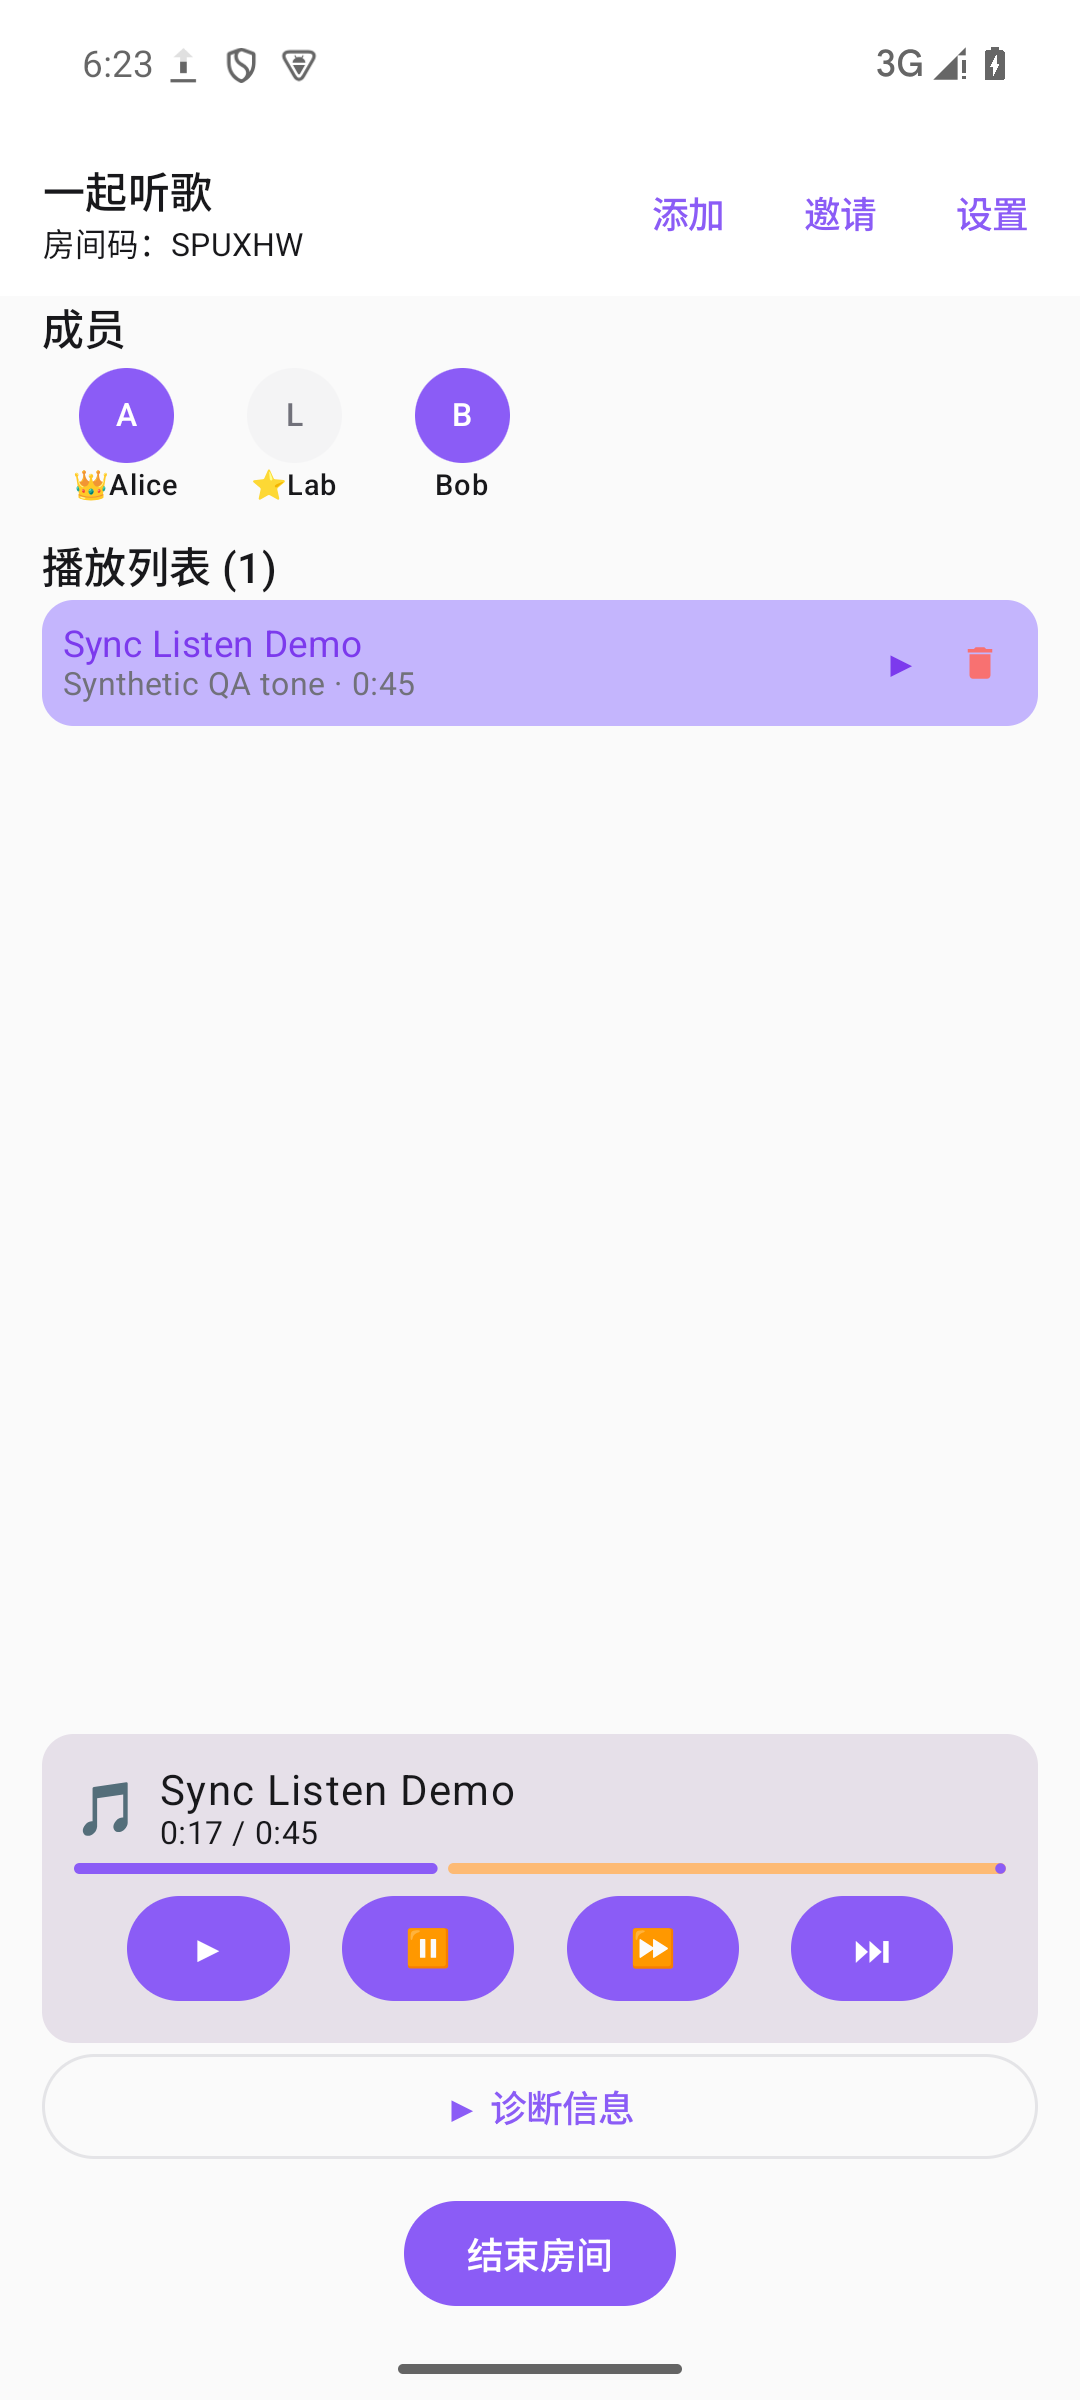
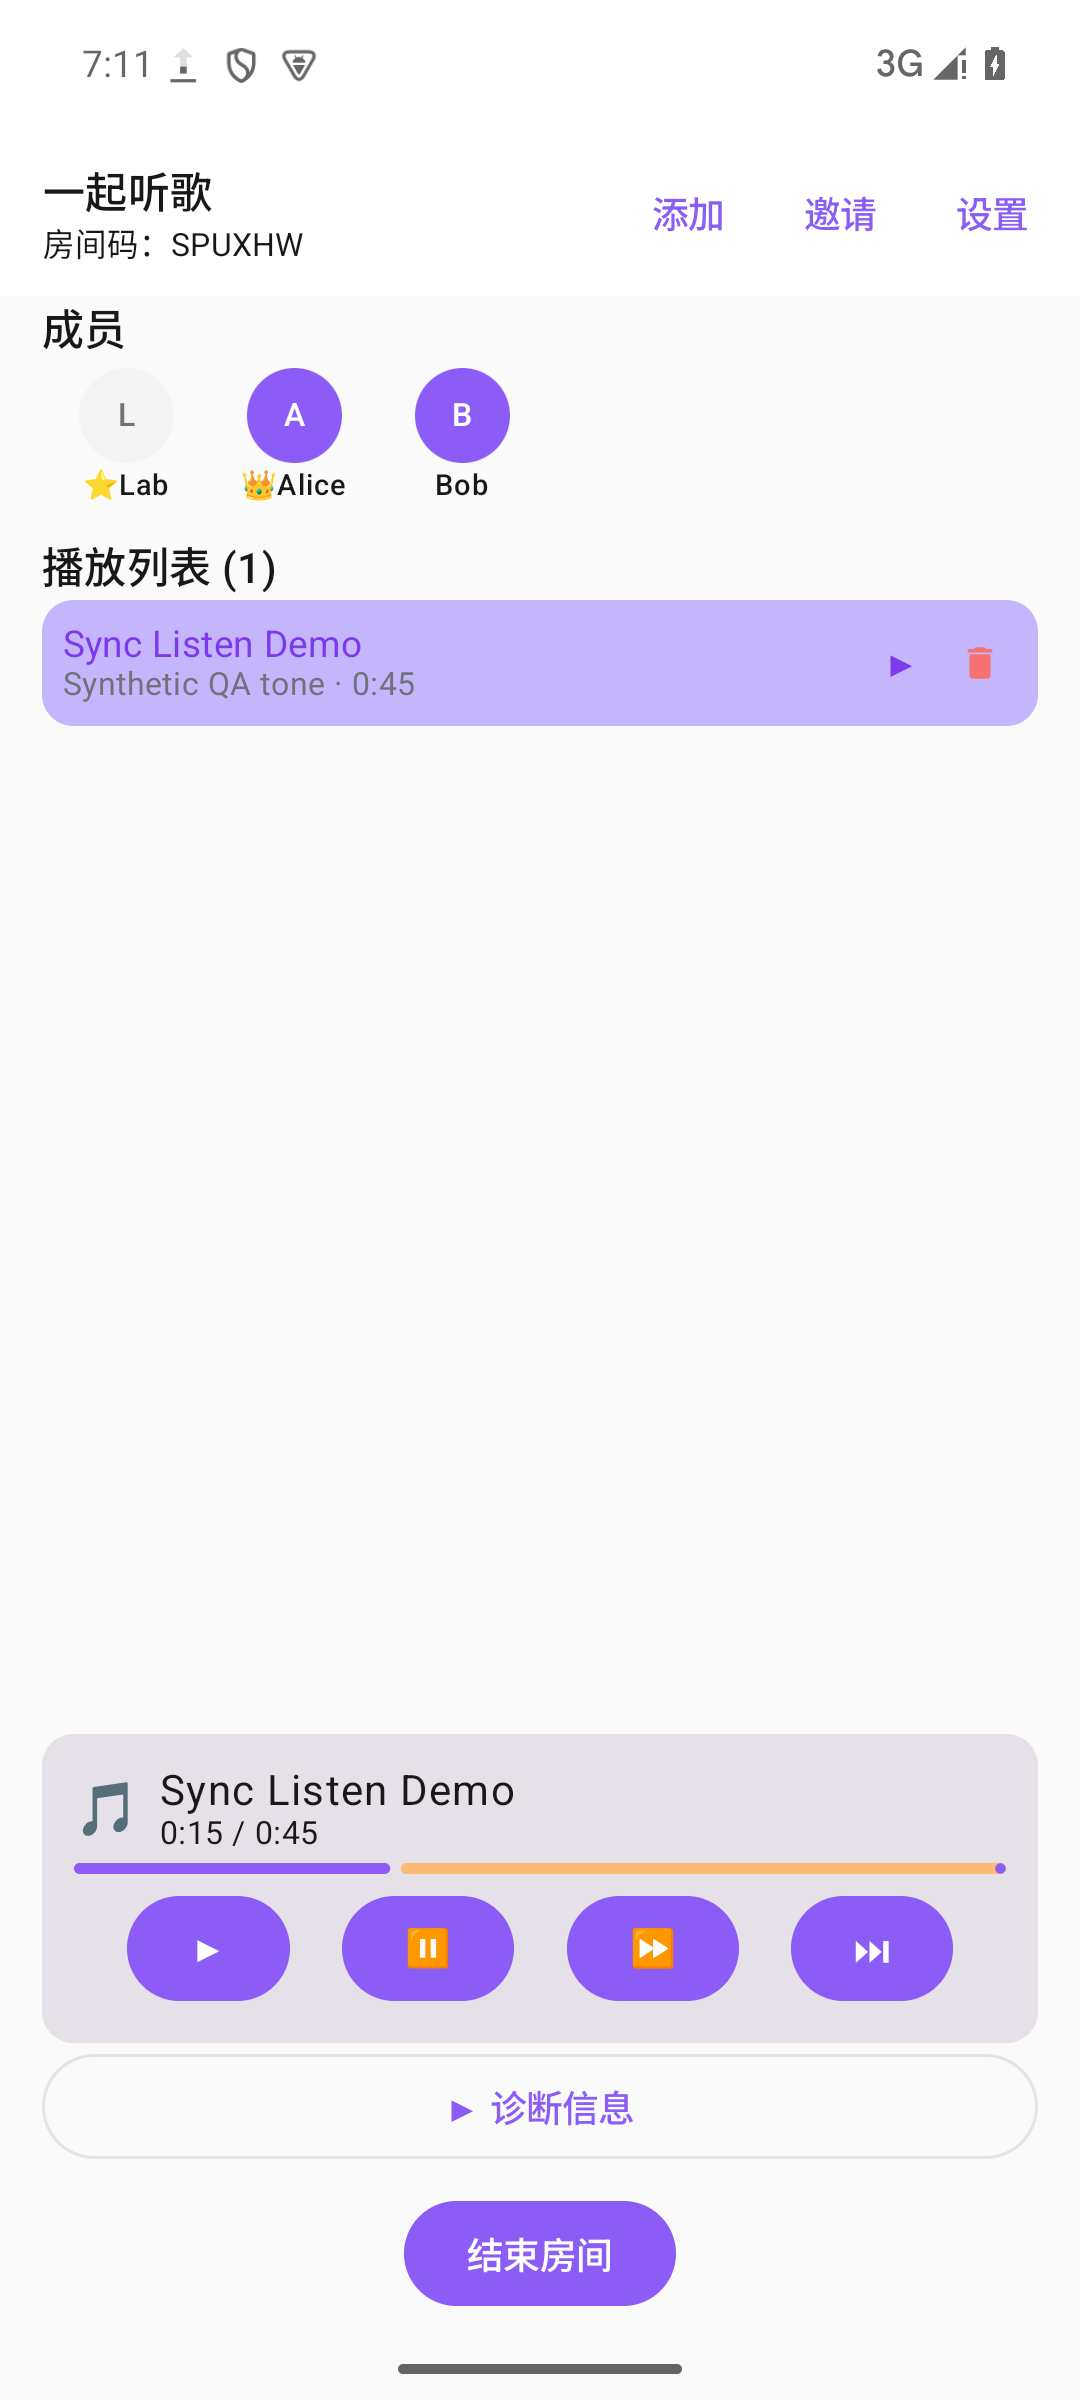
docs: publish complete review and verified preview guide

diff --git a/EXECUTION_LOG.md b/EXECUTION_LOG.md
@@ -6,19 +6,18 @@
 
 - Updated: 2026-09-16
 - Active task: T501-T506 全量分块审查、优化与 GitHub Release
-- Status: in progress
-- Next: 完成最终 Android/desktop 回归和重新签名构建；重开 A/B 验证暂停/seek/恢复与 UI 上传；打包、公开并发布。详见 docs/review-2026-09-16.md。
-- Baseline: HEAD 1aeede3，保留已有未提交源码/UI 修改；发现大量已跟踪构建产物。
-- Publication: 用户明确批准公开 qiaodogbear/sync-listen 并发布下载版本；发布前完成本轮验证。
-- Implemented (本轮待完整验收): 三端设备凭据认证、权限/重排/seek 修复；Ktor 下载范围支持；Android Host 恢复、播放器生命周期、下载校验；desktop 流式下载与播放器重构。
-- Verified (本轮最新): backend 39/39、npm audit 0；shared 6/6、desktop 4/4；Android 85/85，共134，lint零错误/46警告/1提示；Debug和桌面构建通过。前一版正式RSA4096签名已校验，最终Release重建中。
-- Runtime: Release A 托管 SPUXHW，B(Bob) 深链确认加入，Lab 经 Host UI 晋升 Admin；45s WAV 自动下载/完整 hash/Range206/匿名401通过；B 播放观察 RTT17ms、误差155ms、1.02x。不是声学测量。
-- Runtime fixes (已通过自动回归，待最终设备复测): 批量检查未完提前上传；ENDED 后 seek 暂停被忽略及重新播放不能从零开始；诊断本地路径/缓冲值缺失和面板溢出。Android 增加事务失败回滚用例；shared 新增暂停状态用例，最终总数134，全部通过。
-- Resume state: A/B 已关闭释放内存；A 先 force-stop，保存恢复房间及15s暂停点。Lab凭据与邀请仅在 ignored .audit-tmp/session.json；工具 e2e.mjs/control.mjs/device.ps1/join-device.mjs 供本地测试，禁止发布。
-- Docs: README、architecture/API/WS/debugging/known-issues 已更新；MIT/第三方说明、签名与分发脚本、CI、架构图与工程看板已建立。审查正文与最终测试报告/Release 尚待收尾。
-- Tooling: Windows PowerShell 7；S: 映射当前工程避开 Android 测试中文路径；Android Studio JBR 可构建 APK，但缺少 jpackage，桌面打包使用 C:/Program Files/Eclipse Adoptium/jdk-21.0.11.10-hotspot。
-- Licensing: 用户确认 MIT；LICENSE 已添加。计划 v0.3.0 预览 Release，正式私钥存放于仓库外。
-- Publication pending: 尚未提交/推送、尚未公开仓库、尚未发布 Release；不要根据历史 Verified 认定本轮已完成。
+- Status: 发布收尾中；T501-T504完成，T505打包校验中，T506待上传Release。
+- Next: 检查 artifacts 三个发布文件与SHA256SUMS；提交最终文档并推送；创建v0.3.0标签/预览Release，验证匿名下载后更新任务状态。
+- Baseline: 1aeede3，保留已有源码/UI改动；清除415个生成文件的Git索引跟踪但保留本地文件。
+- Implemented: 设备凭据/权限、协议、事务/恢复、传输校验、播放器/重连、导航/诊断、桌面缓存/播放器等修复。审查见 docs/review-2026-09-16.md，清点163文件，118生产/45测试。
+- Critical runtime fix: 父表REPLACE触发曲目外键级联删除；改@Upsert，真实Room设备用例连续三次恢复/异常关闭通过；最终签名包连续两次恢复也保留曲目。
+- Verified: 单元/服务集成134（backend39、Android85、shared6、desktop4）+真实Room设备1，共135通过。lint零错误/48警告/1提示；npm audit0。GitHub CI 35010915893 三端通过（源码05bb9ac）。
+- APK: 最终Release构建4m24s，RSA4096/v2签名通过。SHA256 6e4947a34737ecc94ce13c1411f741bab1b3f1e1af945958061c010cb0e8455b，证书未变，含LICENSE/THIRD_PARTY_NOTICES。
+- Runtime: A/B安装正式包；WAV上传/hash/Range206/匿名401；UI上传、缓存去重/next、暂停seek15.000s、EOF重播通过。Host停止时B重连中仍从33s播到38s，恢复后35s观测窗内自动连回并暂停15s；显式结束后重开无恢复卡。不是声学或真机长时验收。
+- Resume state: 测试房间SPUXHW已显式结束；A/B关闭释放内存，AVD定义保留。ignored .audit-tmp含失效测试会话/辅助脚本，禁止发布。
+- Tooling: Windows PowerShell7；S:映射当前工程；完整Temurin JDK21.0.11+10含jpackage。精确命令见docs/debugging.md，交接见docx/项目交接文档.md。
+- Publication: 用户已批准public、MIT、Release并完成workflow授权。仓库已公开，匿名API及网页HTTP200已验证；README/架构图/工程看板/使用文档已提交或待本次文档提交。
+- Signing: 私钥与DPAPI文件仅在 $HOME/.synclisten/signing；不要重建旧密钥、公开密码或误把DPAPI文件当跨机密码备份。
 
 ## Decisions
 

diff --git a/docs/review-2026-09-16.md b/docs/review-2026-09-16.md
@@ -13,7 +13,7 @@
 ## 审查方式与范围
 
 - 全量文件清点：递归清点 android-app / backend / shared / desktop / protocol 的 Kotlin、TypeScript 源码与测试；排除 build、dist、缓存、node_modules。
-- 总计 162 个文件：118 个生产文件，44 个测试/测试辅助文件；物理行数约 1.68 万，包含空行和测试，不是覆盖率。
+- 总计 163 个文件：118 个生产文件，45 个测试/测试辅助文件；物理行数约 1.68 万，包含空行和测试，不是覆盖率。
 - 按模块追踪请求、身份、文件流、锁/事务、生命周期、UI 状态和失败路径；对高风险代码逐段阅读，并使用全局静态搜索找吞异常、一次性播放器、未鉴权接口及占位回调。
 - 运行既有测试建立基线，再新增协议、鉴权、范围下载、设置并发、缓存、播放与事务失败回归；使用模拟器运行正式签名产物。
 - 工程配置、Manifest、资源、Gradle/npm、CI、部署文件、签名和仓库历史另行检查，不混入 Kotlin/TypeScript 文件计数。
@@ -48,7 +48,7 @@ node scripts/review-inventory.mjs
 |---|---|---|---|
 | R01 | P1 | 只靠 userId 和房间邀请，成员可冒用 Host；部分读写/下载/角色接口无独立身份验证 | backend/src/auth.ts、两侧 HostServer/HostRoomStore、新 DeviceAuthInterceptor；每设备按 origin 派生凭据；伪造身份/越权集成测试 |
 | R02 | P1 | FileProvider 共享整个文件系统根，扩大文件暴露范围 | Android file_paths.xml 仅允许 shared-apk 子目录；APK 先复制到专用缓存再分享；关闭身份备份 |
-| R03 | P1 | Android Host 多表写入和内存状态可部分成功，恢复后状态不一致 | HostServerService 使用 Room withTransaction；HostRoomStore.mutate 失败还原内存；新增提交失败回归 |
+| R03 | P1 | Android Host 多表写入和内存状态可部分成功，恢复后状态不一致 | HostServerService 使用 Room withTransaction；HostRoomStore.mutate 失败还原内存；父表从 REPLACE 改为 @Upsert，避免更新房间时级联删除歌曲；新增真实 Room 连续恢复测试及提交失败回归 |
 | R04 | P1 | Desktop 准备即播放、队列空引用、释放后执行器不能复用 | DesktopPlayerEngine 改为每会话独立解码/输出/线程；load 只准备，play 显式开始；EOF、释放重用和暂停 seek 测试 |
 | R05 | P1 | Desktop 缺少可靠自动下载与校验，播放器不能获得正确文件 | DesktopCacheResolver 流式下载、临时文件、长度/hash 校验与提交；AppState 在缓存就绪后重新同步 |
 | R06 | P1 | 吞取消、旧房间事件/连接残留、托管启动与恢复竞态 | Repository/上传传播 CancellationException；WS 清理旧会话；服务启停串行化；恢复后真正重新加入原身份 |
@@ -80,7 +80,7 @@ node scripts/review-inventory.mjs
 1. 建立三类真机的长时播放矩阵，加入 MediaSession 播放前台服务、来电/耳机/电池策略与后台恢复验证。
 2. 把下载与缓存变成可观察、可重试的单曲状态机；磁盘满、损坏文件和前一曲失败不阻塞其他歌曲。
 3. 加成员就绪门槛和网络变更提示。邀请地址不可达、权限不足、文件不可解码都要给出清晰下一步。
-4. 增加协议合同测试与 Android 真数据库迁移/崩溃恢复测试，再逐步提取公共核心。
+4. 增加协议合同测试与 Android 真数据库迁移/故障注入测试，再逐步提取公共核心。
 5. 清理剩余 lint 警告、统一页面结构与主题，补大字号、窄屏、TalkBack 和键盘操作。
 
 完整限制与验收目标见 [known-issues.md](known-issues.md)。

diff --git a/CHANGELOG.md b/CHANGELOG.md
@@ -11,7 +11,7 @@
 
 ### Reliability
 
-- Make Android host persistence transactional and roll back the in-memory mirror on failed commits. Restore rooms through real membership rejoin.
+- Make Android host persistence transactional and roll back the in-memory mirror on failed commits. Replace parent-row REPLACE with Upsert to prevent cascading track deletion on repeated recovery. Restore rooms through real membership rejoin.
 - Preserve paused state on seek, stop early SYNC before scheduled execution, and handle Ready/Ended transitions without ignoring pause.
 - Restart completed tracks from the beginning; bound client seeks to decoded duration.
 - Improve cancellation, WebSocket cleanup/retry, local-only network handling, upload byte limits and cache verification.
@@ -23,7 +23,7 @@
 - Retain and complete the existing Android/desktop UI work, invitation confirmation, role updates, server-edit guard and leave confirmation.
 - Correct local-file/buffering diagnostics and use a bounded scrollable diagnostics panel.
 - Remove nonfunctional cloud shortcut buttons; document the trusted-LAN deployment boundary.
-- Expand the combined automated suites to 134 passing tests, three-platform CI configuration, review inventory, architecture diagram and engineering workbook.
+- Expand the unit/service integration suites to 134 passing tests, plus one real Room database device regression (135 total). Add three-platform CI configuration, review inventory, architecture diagram and engineering workbook.
 - Stop tracking generated build output, add signing/packaging scripts, MIT license and third-party source notices.
 
 See docs/test-report.md for actual verification and docs/known-issues.md for unverified hardware/background behavior. Test count is not code coverage or a claim of zero defects.

diff --git a/docs/releases/v0.3.0.md b/docs/releases/v0.3.0.md
@@ -14,7 +14,7 @@
 ## 本版改进
 
 - 设备身份和房间邀请分离，服务端验证角色与操作人，阻止成员冒充房主。
-- Android 托管状态事务化，异常中断后可恢复原房间并暂停继续。
+- Android 托管状态事务化，父表使用非删除式 Upsert，修复连续恢复丢失播放列表；异常中断后可恢复原房间并暂停继续。
 - 修复列表重排冲突、暂停/seek/曲终重播、取消和重连、批量选择与下载校验问题。
 - 重构 Windows 播放器生命周期并补齐自动下载、hash 校验和缓存就绪后同步。
 - 完善创建/加入引导、邀请确认、角色刷新、服务器切换限制和诊断信息。
@@ -31,8 +31,8 @@ Android APK 证书 SHA-256：
 
 ## 验证和限制
 
-- 本机自动化 134/134：Backend 39、Android 85、Shared 6、Desktop 4。
-- 后端 lint/typecheck/build 与 npm audit 通过；Android lint 为 0 错误，仍有 46 警告。
+- 单元/服务集成 134/134：Backend 39、Android 85、Shared 6、Desktop 4；另有真实 Room 设备数据库测试1/1，总计135。
+- 后端 lint/typecheck/build 与 npm audit 通过；Android lint 为 0 错误，仍有 48 警告。
 - 模拟器结果、复测记录和明确未验证项见 [测试报告](https://github.com/qiaodogbear/sync-listen/blob/feat/mvp/docs/test-report.md)。
 - Android 真机长时间锁屏/托管、物理扫码、BLE/NFC、不同音箱输出延迟仍待补验。
 - Windows 本轮验证 PCM WAV；MP3 已集成但未完成广泛兼容测试。Windows 包无 Authenticode 签名，请核对来源和校验值，不要关闭系统防护。

diff --git a/docs/known-issues.md b/docs/known-issues.md
@@ -20,6 +20,7 @@
 - 托管网络切换后旧邀请地址可能失效。应主动检测、提示并生成新邀请，不能自动迁移已有房间凭据到任意地址。
 - 诊断面板在小屏、放大字体时可能拥挤；应改为可滚动详情页，房间主界面保留关键信息。
 - 完善桌面离房确认、键盘导航、可访问性语义和批量选择反馈。主题美化排在状态可靠与交互闭环之后。
+- 首页固定深色与房间页的系统主题尚未统一，首页系统状态栏对比度也需完善。
 - 当前 lint 为零错误但仍有警告，需按兼容性/无障碍/维护性分批清理，不能把 lint 通过当作零风险。
 
 ## 平台与网络边界
@@ -35,7 +36,7 @@
 - Windows 分发包尚无 Authenticode 签名。Android 正式版使用独立签名，与过去 Debug/其他签名包的升级规则不同。
 - 根目录 render.yaml 的旧 free plan + persistent disk 组合不能直接作为有效的免费部署方案；本轮未部署 Render/Fly，也未产生付费资源。需自行调整并验证。
 - Node 的 node:sqlite 可能输出 ExperimentalWarning。Windows 中文路径单测推荐 ASCII subst 映射。
-- 本轮未运行真实 SQLite Android 仪器化迁移测试；Room/KSP 与 Fake DAO 测试不能完全替代设备级数据库测试。
+- 真实 Room 仪器化测试已覆盖连续恢复与外键行为；尚未覆盖 schema1迁移、真实磁盘满、断电和文件缺失。Fake DAO 测试不能代替这些设备级故障测试。
 
 ## P2 Backlog
 

diff --git a/docs/review/inventory.md b/docs/review/inventory.md
@@ -4,6 +4,7 @@ Generated by scripts/review-inventory.mjs. Includes Kotlin and TypeScript source
 
 | File | Kind | Lines |
 |---|---|---:|
+| android-app/app/src/androidTest/java/com/synclisten/app/host/persistence/HostRecoveryDatabaseTest.kt | test | 53 |
 | android-app/app/src/main/java/com/synclisten/app/cache/CacheCleanup.kt | source | 33 |
 | android-app/app/src/main/java/com/synclisten/app/cache/CacheDatabase.kt | source | 79 |
 | android-app/app/src/main/java/com/synclisten/app/cache/CacheIndex.kt | source | 46 |
@@ -20,7 +21,7 @@ Generated by scripts/review-inventory.mjs. Includes Kotlin and TypeScript source
 | android-app/app/src/main/java/com/synclisten/app/host/HostAddressResolver.kt | source | 39 |
 | android-app/app/src/main/java/com/synclisten/app/host/HostServerService.kt | source | 161 |
 | android-app/app/src/main/java/com/synclisten/app/host/HostServerState.kt | source | 23 |
-| android-app/app/src/main/java/com/synclisten/app/host/persistence/HostDao.kt | source | 68 |
+| android-app/app/src/main/java/com/synclisten/app/host/persistence/HostDao.kt | source | 70 |
 | android-app/app/src/main/java/com/synclisten/app/host/persistence/HostMemberEntity.kt | source | 17 |
 | android-app/app/src/main/java/com/synclisten/app/host/persistence/HostPersistenceDatabase.kt | source | 29 |
 | android-app/app/src/main/java/com/synclisten/app/host/persistence/HostPlaybackEntity.kt | source | 14 |

diff --git a/AGENTS.md b/AGENTS.md
@@ -6,6 +6,7 @@
 - Use PowerShell 7 on Windows. Build from an ASCII path (for this machine, S: maps to this repository) when Gradle tests fail to load classes in a Unicode path.
 - Use JDK 21. Desktop packaging requires a full JDK with jpackage; this machine uses Eclipse Adoptium jdk-21.0.11.10-hotspot. Android Studio JBR is also available for Android.
 - Android validation: in android-app, run .\gradlew.bat testDebugUnitTest lintDebug assembleDebug --no-daemon.
+- Android database device test: with one API35 AVD running, run .\gradlew.bat connectedDebugAndroidTest --no-daemon in android-app. HostRecoveryDatabaseTest uses an isolated in-memory Room database.
 - Desktop validation: at root, run .\gradlew.bat :shared:test :desktop:test :desktop:createDistributable --no-daemon.
 - Backend validation: in backend, run npm ci, npm run lint, npm run typecheck, npm test, npm run build, npm audit --audit-level=high. Node >=22.13.0 is required.
 - Release signing: scripts/build-release.ps1; private keys are outside the repo at $HOME/.synclisten/signing. Do not initialize or replace an existing signing key. Never log passwords.

diff --git a/TASKS.md b/TASKS.md
@@ -6,8 +6,8 @@
 
 - [x] T501 全量文件分块审查与基线验证，证据记录于 `docs/review-2026-09-16.md`。
 - [x] T502 修复权限、协议一致性、生命周期、传输和播放中的确认问题并回归。
-- [ ] T503 完善工程卫生、可重复构建、CI 与正式签名。
-- [ ] T504 更新 GitHub 介绍、架构图、审查数据展示、使用和发布文档。
+- [x] T503 完善工程卫生、可重复构建、CI 与正式签名。
+- [x] T504 更新 GitHub 介绍、架构图、审查数据展示、使用和发布文档。
 - [ ] T505 构建产物、模拟运行、安装验收及 SHA-256 校验。
 - [ ] T506 公开已授权仓库、推送代码并发布可下载 Release。
 
